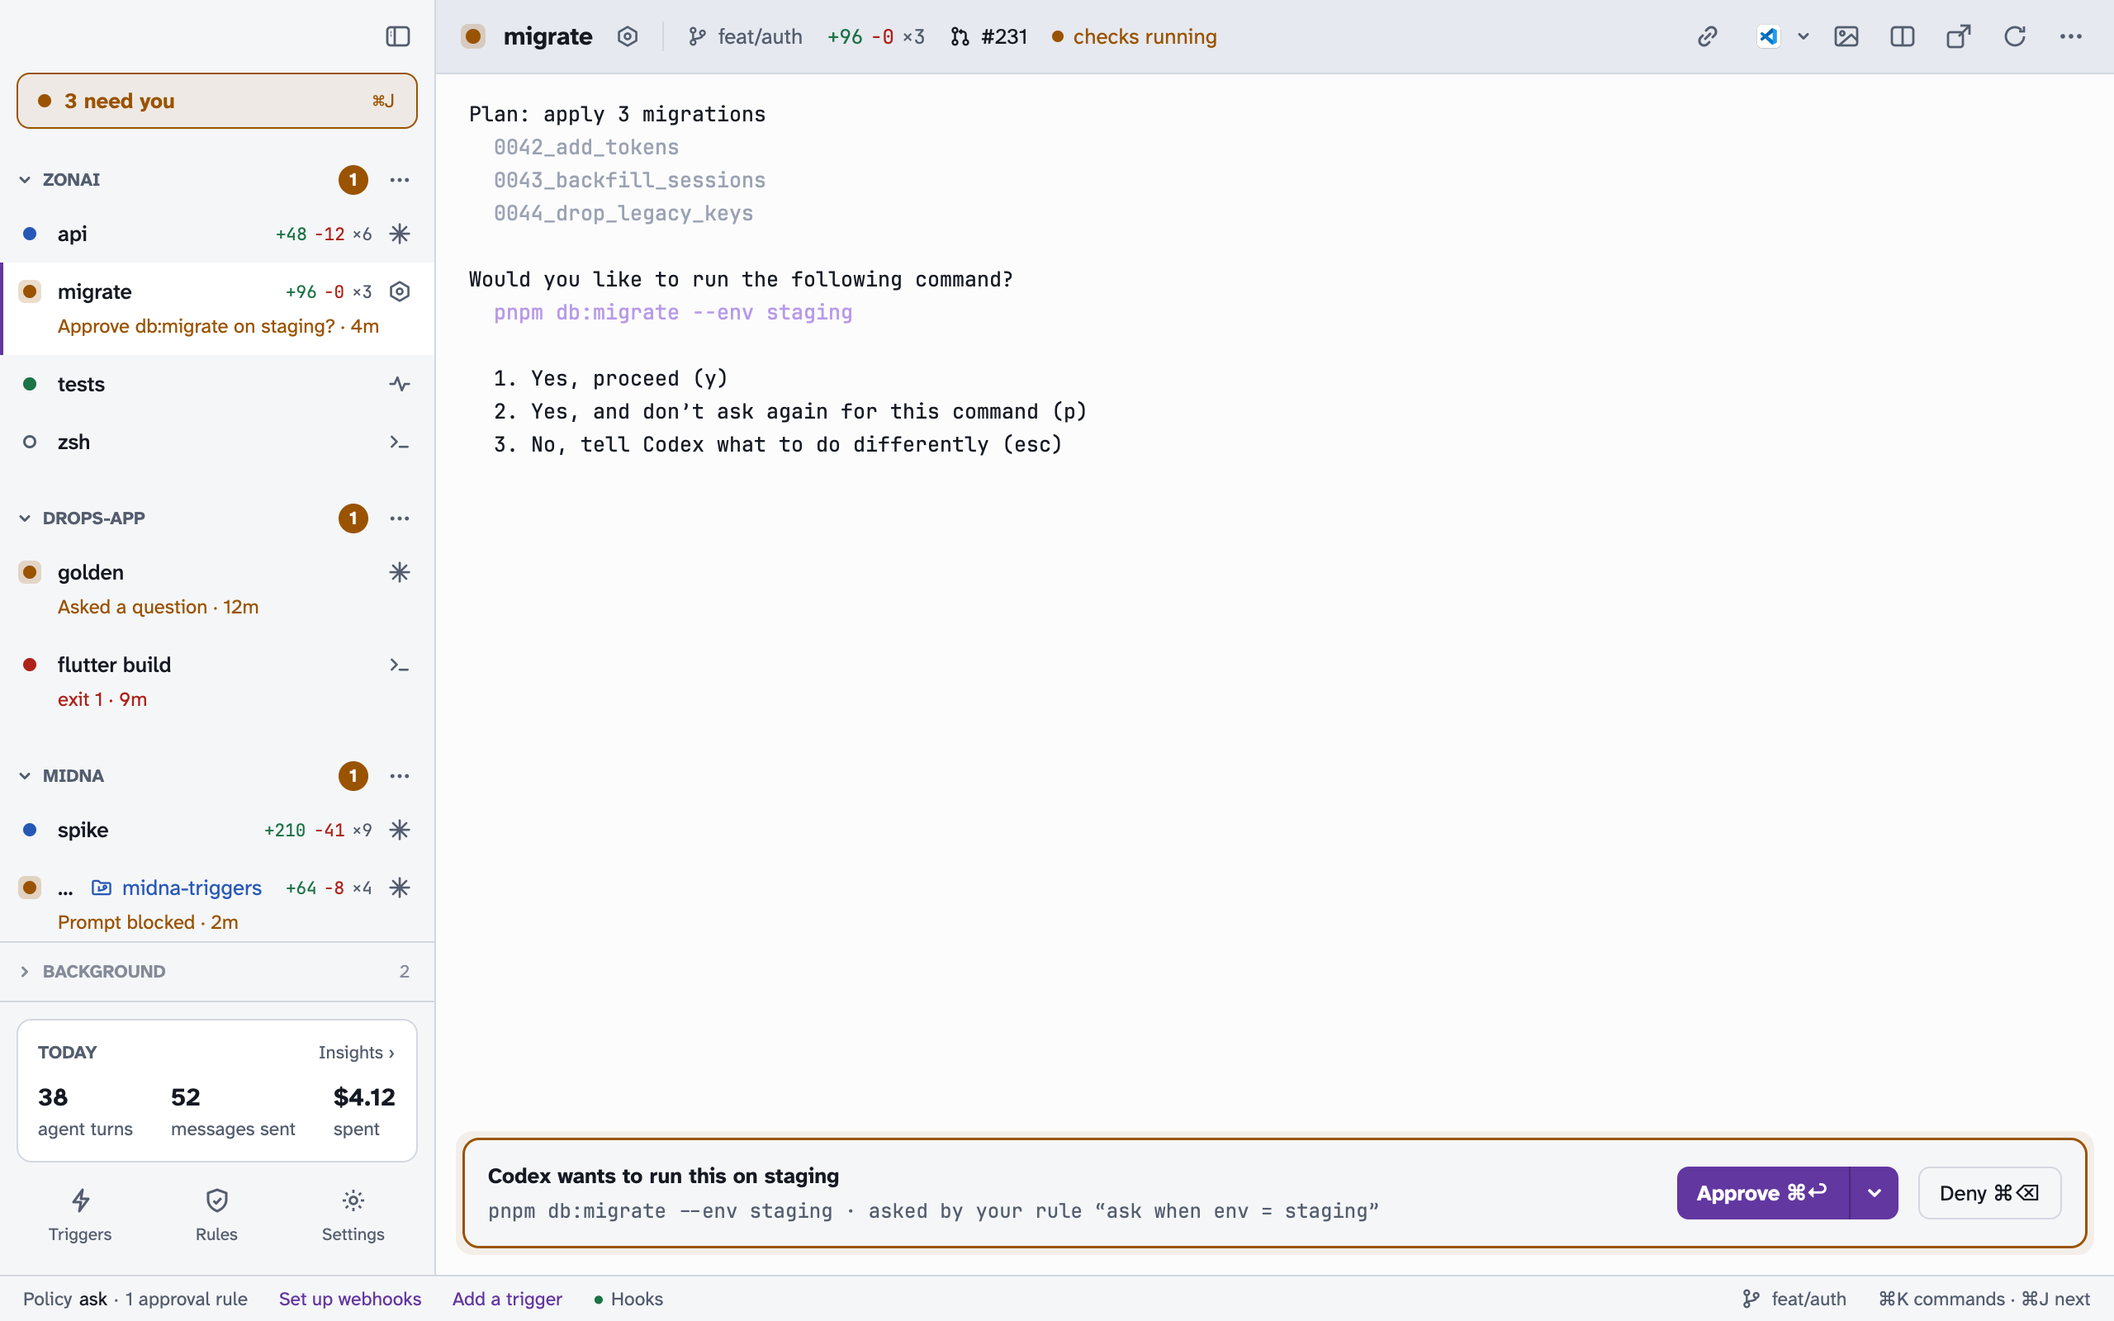
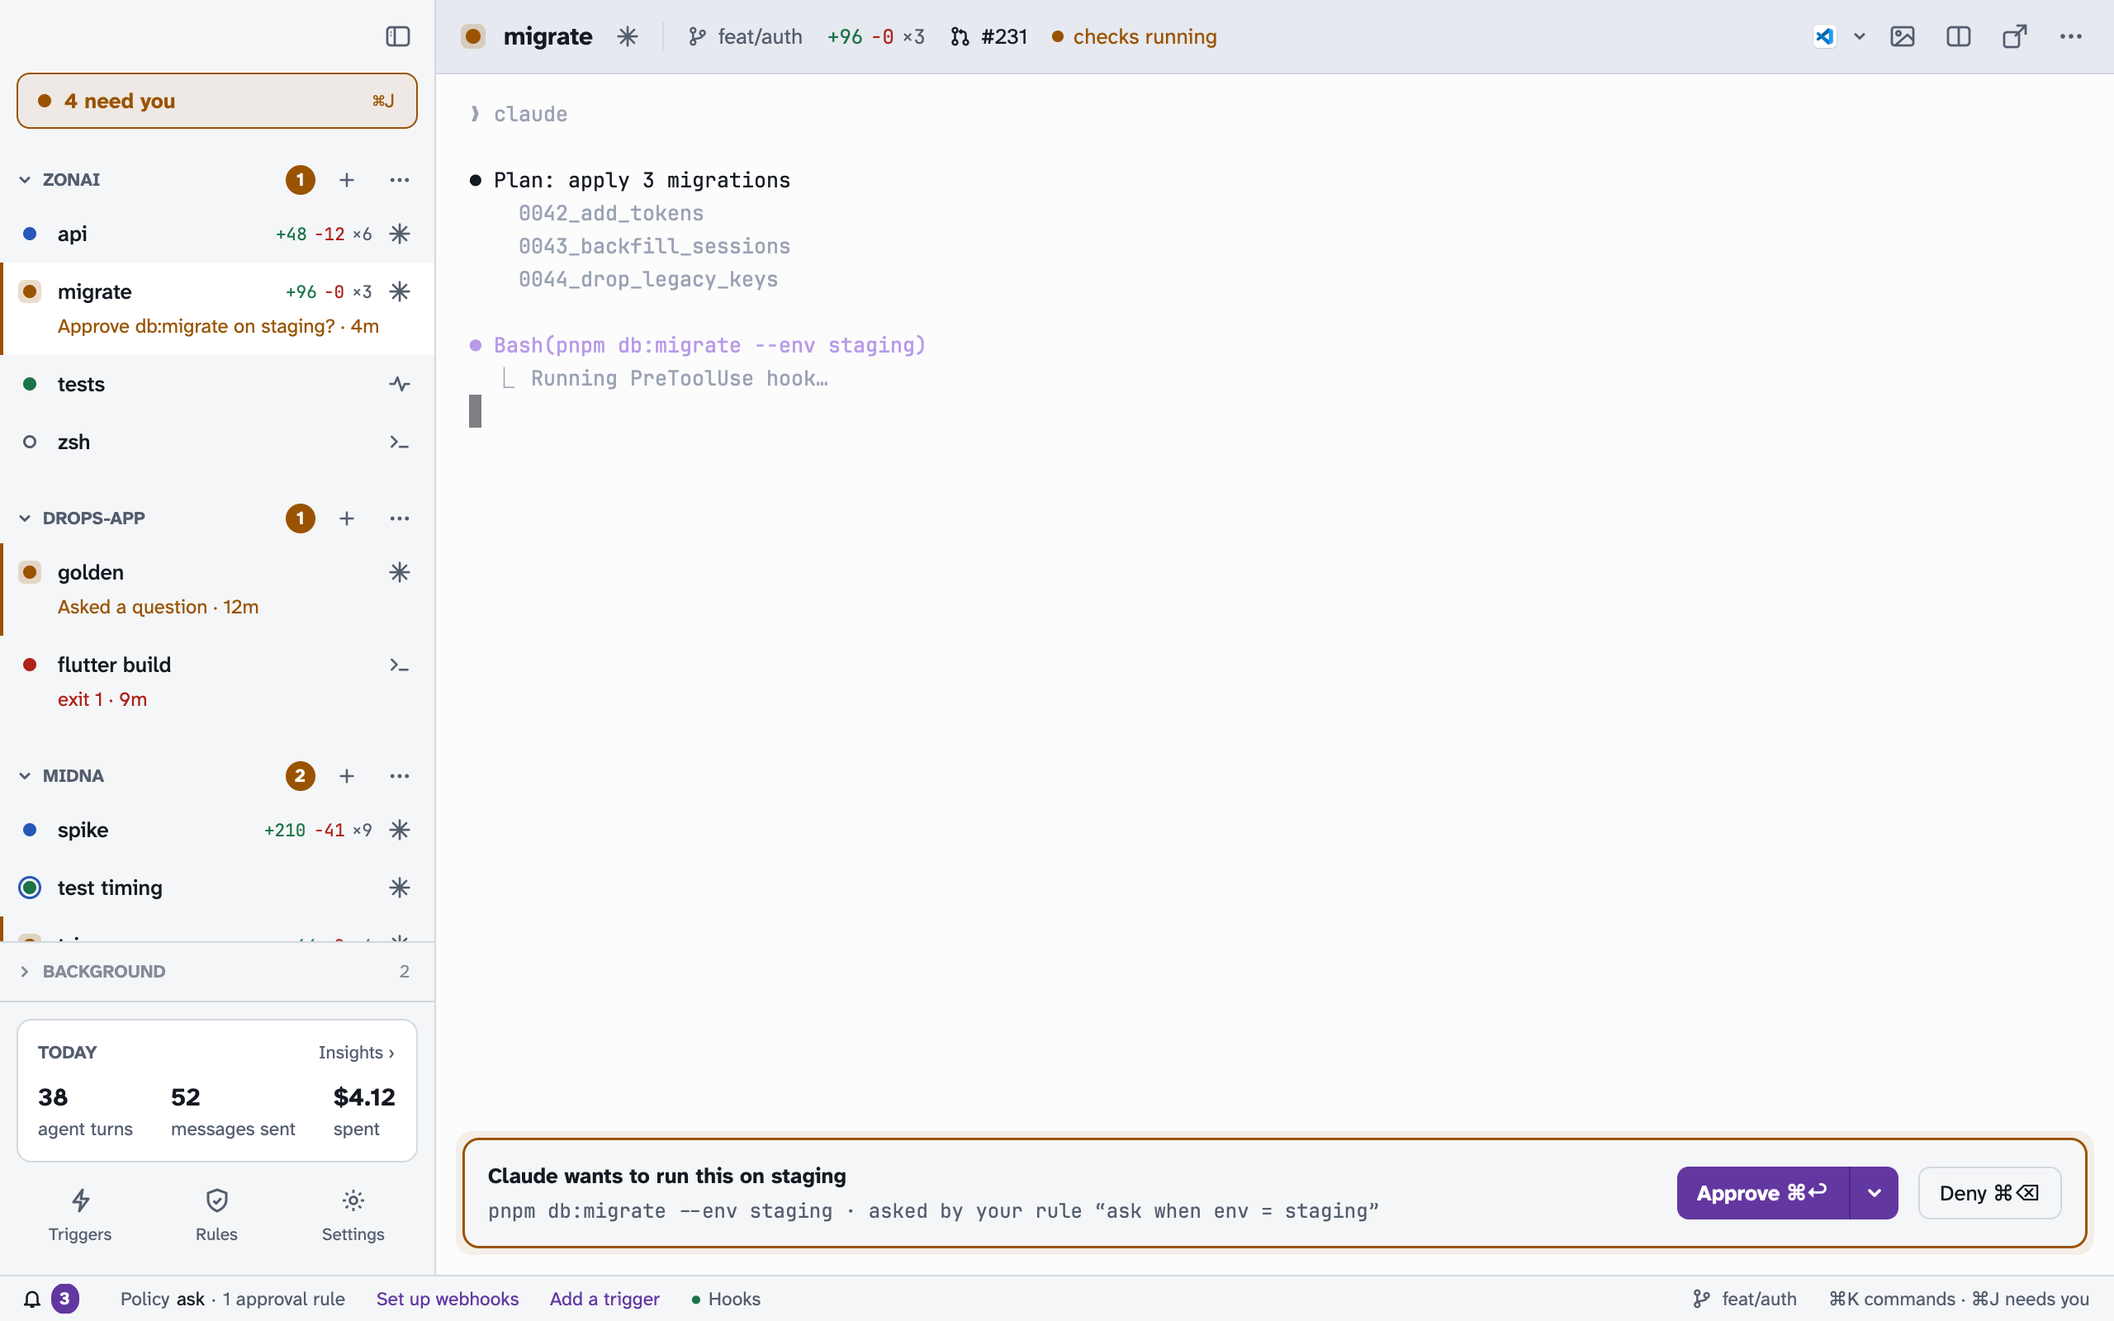
fix(site): act on the marketing review
Add a privacy page, share tags and a 1200x630 share image on every page,
JSON-LD, robots.txt and sitemap dates. Fix the changelog's two H1s and the
download page's static HTML, and label the example data.

Narrow the approvals copy to Claude Code: a live run showed Codex's prompts
stay in its terminal. The sample terminal is now a Claude session, so the
rerendered screenshots show what really happens.

diff --git a/site/src/site.ts b/site/src/site.ts
@@ -5,3 +5,8 @@ export const DOWNLOAD = '/download/';
 export const RELEASES = `${REPO}/releases/latest`;
 export const ISSUES = `${REPO}/issues`;
 export const NEW_ISSUE = `${REPO}/issues/new/choose`;
+// Shown when a page is shared. A versioned name, so a new image isn't hidden by caches.
+export const SHARE_IMAGE = '/share-v1.png';
+export const SHARE_IMAGE_WIDTH = 1200;
+export const SHARE_IMAGE_HEIGHT = 630;
+export const SHARE_IMAGE_ALT = 'The midna window with example data: projects and terminals in the sidebar, and a Claude Code terminal running a migration';

diff --git a/crates/midna-app/src/backend/fake.rs b/crates/midna-app/src/backend/fake.rs
@@ -240,7 +240,7 @@ impl FakeBackend {
                     "p_zonai1",
                     "migrate",
                     Agent,
-                    Some(Codex),
+                    Some(Claude),
                     NeedsYou,
                     Some("Approve db:migrate on staging?"),
                     4,
@@ -284,9 +284,9 @@ impl FakeBackend {
                 session_id: Some("a1f00002".into()),
                 project_id: Some("p_zonai1".into()),
                 kind: NeedsYouKind::Approval,
-                title: "Codex wants to run this on staging".into(),
+                title: "Claude wants to run this on staging".into(),
                 detail: "asked by your rule “ask when env = staging”".into(),
-                asked_by: Actor { kind: "agent".into(), session: Some("a1f00002".into()), name: Some("codex".into()) },
+                asked_by: Actor { kind: "agent".into(), session: Some("a1f00002".into()), name: Some("claude".into()) },
                 created_at: ago(4),
                 approval: Some(ApprovalRequest {
                     action: PolicyAction {
@@ -389,17 +389,15 @@ impl FakeBackend {
             (
                 "a1f00002",
                 transcript(&[
-                    ("", "Plan: apply 3 migrations"),
-                    (DIM, "  0042_add_tokens"),
-                    (DIM, "  0043_backfill_sessions"),
-                    (DIM, "  0044_drop_legacy_keys"),
+                    (DIM, "❯ claude"),
                     ("", ""),
-                    ("", "Would you like to run the following command?"),
-                    (ACC, "  pnpm db:migrate --env staging"),
+                    ("", "⏺ Plan: apply 3 migrations"),
+                    (DIM, "    0042_add_tokens"),
+                    (DIM, "    0043_backfill_sessions"),
+                    (DIM, "    0044_drop_legacy_keys"),
                     ("", ""),
-                    ("", "  1. Yes, proceed (y)"),
-                    ("", "  2. Yes, and don’t ask again for this command (p)"),
-                    ("", "  3. No, tell Codex what to do differently (esc)"),
+                    (ACC, "⏺ Bash(pnpm db:migrate --env staging)"),
+                    (DIM, "  ⎿  Running PreToolUse hook…"),
                 ]),
             ),
             ("a1f00003", transcript(&[(DIM, "cargo watch -x test"), (OK, "   ok  auth::refresh"), ("", "412 passed; 0 failed")])),

diff --git a/docs/marketing/page-brief.md b/docs/marketing/page-brief.md
@@ -1,0 +1,42 @@
+# Page brief
+
+- Type and state: Product site for a free, open source Mac app, live on a public beta. Stable hasn't shipped (newest release v0.1.0-beta.46, checked 2026-11-06).
+- Audience: Developers on Apple Silicon Macs who already run Claude Code or Codex in a terminal, often several at once, and know what an approval prompt is.
+- The page's one job: Get that developer to download midna and try it on a real project.
+- Primary CTA: "Download for Mac", to `/download/`. Wording and target wait on the download decision below.
+- Secondary action: "Read the docs", to `/docs/`.
+- Search phrases: terminal for Claude Code; macOS terminal for AI agents; run multiple Claude Code sessions; approve Claude Code prompts in one place; Claude Code terminal app Mac.
+- Objections: Does it work with my agent? Will my shells die when it updates? Is it safe to let agents drive my terminal? Is it signed? What does it send, and to whom? Is it free?
+- Analytics and cookies: none. Fonts are served from the site. The download page calls `api.github.com` from the browser.
+
+## Claims
+
+Checked 2026-11-06.
+
+| Claim on the page | Evidence |
+| --- | --- |
+| Native macOS terminal for Claude Code and Codex | `crates/midna-app`, `README.md` |
+| Agents open and read terminals through a CLI and MCP server | `midna capabilities`; `site/src/content/docs/docs/agents.md` |
+| Claude Code approvals land in one queue, approve and deny from midna | Real dialog fixture `crates/midnad/tests/fixtures/claude-2.1.288-permission.screen.txt`; `docs/DECISIONS.md` |
+| Codex's approval prompts stay in its terminal | Live run with codex-cli 0.163.0, `approval_policy="on-request"`, temp daemon: prompt shown, status stayed `working`, `midna needs` empty for over a minute. Backlog B774 |
+| Approving for 15 minutes, 1 hour, the session or always adds a rule | `approve-menu.png`, a real render; `docs/DECISIONS.md` |
+| Shells keep running when the app restarts or updates | Daemon owns the shells: `AGENTS.md`, `README.md` |
+| Free and open source (MIT) | `LICENSE`, Copyright 2026 Morgan Hunt |
+| Apple Silicon | arm64-only DMG: `.github/workflows/release.yml:155` |
+| macOS 12 or later | `LSMinimumSystemVersion` 12.0 in `packaging/build-app.sh` and the shipped `Info.plist`. Never run on macOS 12: see below |
+| Signed, notarized, updates itself | beta.46 DMG: `spctl` accepted as Notarized Developer ID (Developer ID Application: Morgan Hunt, U2G2XV3688); `stapler validate` passes on the DMG and `Midna.app`. Updates: `crates/midna-app/src/updater.rs` |
+| Eight built-in themes | `crates/midna-proto/src/themes.rs` `BUILTIN_IDS` |
+| Triggers can arrive by webhook over Tailscale Funnel | `crates/midnad/src/webhooks/`, but turning Funnel on hasn't been run for real: see below |
+| Privacy page: no account, analytics or crash reporting | Source search of `crates/` for sentry, telemetry, posthog, amplitude, crash reporting: nothing. `ureq` only in `updater.rs` |
+| Privacy page: update check every 6 hours | `CHECK_EVERY` in `crates/midna-app/src/updater.rs` |
+| Privacy page: what link previews, the network check, cleanup and webhooks send | `crates/midna-app/src/terminal/link_preview.rs`; `PROBE_HOST` in `crates/midnad/src/resume.rs`; `crates/midna-proto/src/cleanup.rs`; `webhooks.path` in `crates/midna-proto/src/settings.rs` (off by default). Cleanup is on by default |
+| Screenshots | Real renders of midna with the fake backend's sample data, made with the `snapshot` feature (`docs/DECISIONS.md:150`), not recreations. The hero is labelled "Example data". `main`, `main-light`, `approve-menu`, `command-bar`, `needs-you` and `composer` were rendered 2026-11-06 at 1280x800 @2x with `MIDNA_BACKEND=fake MIDNA_SELECT=a1f00002` |
+
+Structured data uses `Organization` for midna, because naming Morgan as a `Person` is their call.
+
+## Waiting on a person
+
+- Morgan: decide what Download does. Every release is a prerelease, so `/releases/latest` is a 404 and the page ends at "midna isn't out yet". Offer the beta, cut a stable release, or call the site pre-launch.
+- Morgan: run midna once on macOS 12, or raise the stated minimum to a version it has run on.
+- Morgan: turn Tailscale Funnel on for real and check a webhook arrives, or drop Funnel from the home page.
+- Morgan: read `/privacy/` and confirm it's what you want to publish under your name.

diff --git a/site/src/content/docs/privacy.md b/site/src/content/docs/privacy.md
@@ -1,0 +1,42 @@
+---
+title: Privacy
+description: What midna and this website keep, what leaves your Mac and where it goes. No account, no analytics, no cookies.
+---
+
+Last updated November 6, 2026.
+
+midna has no account, and neither the app nor this website has analytics, crash reporting or tracking. What you do in midna stays on your Mac unless one of the things listed below sends it somewhere.
+
+midna is made by Morgan Hunt. If you have a question about this page, [open an issue](https://github.com/mrgnhnt96/midna/issues/new/choose).
+
+## What stays on your Mac
+
+Projects, rules, triggers, settings, logs and the event log are kept in `~/Library/Application Support/com.mrgnhnt.midna`. Secrets are kept in the macOS Keychain. Nothing in that folder is uploaded by midna.
+
+To remove all of it, follow [Uninstall](/docs/install/#uninstall) and delete the folder.
+
+## What the app sends
+
+| What | Where it goes | When | What's sent |
+| --- | --- | --- | --- |
+| Update check | GitHub | Every 6 hours | A request for the channel's update file, with midna's version in the user agent |
+| Link preview | The site you're pointing at | When the pointer rests on a web link in a terminal | A normal request for that page, to show its title and description. Never for local or private addresses |
+| Pull request details | GitHub, through your own `gh` | When a terminal's branch has a pull request, or the pointer rests on a pull request link | What `gh` sends when you run it yourself |
+| Network check | `api.anthropic.com` | While an agent is waiting for the network to come back | A connection attempt only. No data |
+| Cleanup after a terminal closes | Anthropic, through your own Claude account | When an agent terminal closes, if `cleanup.enabled` is on (it is by default) | midna runs Claude with `cleanup.model` to tidy up what the terminal left behind. Turn it off in Settings |
+| Webhooks | Whichever path you set up | Only if you turn webhooks on (they're off by default) | Events arrive from GitHub or Bitbucket through the path you chose, such as Tailscale Funnel |
+| Report an issue | GitHub, in your browser | Only when you choose it | A prefilled issue with versions and hardware. Nothing is sent until you submit it. No paths, project names, terminal output or logs |
+
+## Agents
+
+Agents such as Claude Code and Codex are separate programs that you install and sign in to yourself. What you send them goes to their makers under those companies' own terms. midna doesn't send your prompts anywhere else.
+
+Triggers and scripts you add run as you, and they can reach whatever you tell them to.
+
+## This website
+
+This site is hosted on GitHub Pages, so GitHub handles every visit and may keep technical logs, such as IP addresses. See [GitHub's privacy statement](https://docs.github.com/en/site-policy/privacy-policies/github-general-privacy-statement).
+
+The [download page](/download/) asks GitHub's API for the newest release from your browser, and the download itself comes from GitHub.
+
+The site sets no cookies, loads no analytics and serves its own fonts.

diff --git a/README.md b/README.md
@@ -132,15 +132,14 @@ spikes/          proven prototypes the crates grew from
 **Known gaps:**
 - **Same-user limitation.** The human/agent boundary is a guardrail, not authentication against a hostile local process (`docs/SECURITY.md`).
 - **Not run for real:**
-  - Codex approval prompts. The user's config sets `approval_policy="never"`.
   - The Kass AX insert.
   - Turning Tailscale Funnel on.
   - The Keychain secret path.
   - `gh` recovery against GitHub.
-  - Notarization.
   - The `RequiresApproval` login-item flow.
   - The macOS 12 legacy LaunchAgent path.
 - **Startup dialogs aren't surfaced as needs-you:** Claude or Codex folder trust and the hooks review.
+- **Codex approval prompts aren't surfaced as needs-you.** Run live on 2026-11-06 with Codex 0.163.0: the prompt stays in its terminal and the status stays working.
 - **Relay webhook paths** (`self_relay`, `midna_relay`) aren't built.
 - **Trigger filters** are structured only (repo, branch, action, label). There are no expressions.
 - **Packaging gaps:**
@@ -167,7 +166,7 @@ These need you (credentials, your screen, or your accounts). Nothing in this lis
    1. Run `kass-probe … kass-sim 2`.
    2. Expect `role=AXTextArea … Inserted{exact:true}`.
    3. Better still, dictate with the real Kass.
-4. **Live-test Codex approvals.** Your `~/.codex/config.toml` sets `approval_policy="never"`. Use a temp `CODEX_HOME` with `on-request` (or a webhook-started Codex, which now runs `on-request`), and check that the prompt patterns and approve/deny from midna work.
+4. **Surface Codex approvals.** Live-tested on 2026-11-06 with Codex 0.163.0 and `approval_policy="on-request"`: the prompt stays in its terminal, and nothing reaches Needs you. midna starts Codex with `notify` only, which fires at the end of a turn, and the screen check only settles prompts that were already raised.
 5. **Enable Tailscale Funnel** for your tailnet. Then run `midna webhooks configure tailscale_funnel` from the GUI (human only), and point a GitHub webhook at the public URL that `midna webhooks status` shows.
 6. **Decide on `triggers.agent_mode`.** The default is `supervised`, which forces permission prompts on webhook-started agents even though your global Claude config bypasses them. Switch to `inherit` only if you accept that risk. Local triggers (schedules, hooks) use your normal config; to give one trigger's agents their own mode or tools, use `midna triggers update <id> --permission-mode auto --allow-tool <tool>`.
 7. **Grant Accessibility to Midna.app only after reading `docs/SECURITY.md` → "TCC responsibility".** Agents in midna terminals may inherit that grant.

diff --git a/site/src/content/docs/docs/agents.md b/site/src/content/docs/docs/agents.md
@@ -28,12 +28,12 @@ Anything only you can answer goes to **Needs you**. The terminal's row turns ora
 - The terminal you're looking at shows its approval along the bottom. <kbd>⌘</kbd> <kbd>↩</kbd> approves, <kbd>⌘</kbd> <kbd>⌫</kbd> denies.
 - <kbd>⌘</kbd> <kbd>J</kbd> goes through everything waiting, one card at a time, oldest first.
 
-![A Needs you card for an agent's question, with the remaining items listed below](../../../assets/screens/needs-you.png)
+![The Needs you screen: everything waiting listed on the left, with an agent's question open on the right](../../../assets/screens/needs-you.png)
 
 | Item | What it is | <kbd>⌘</kbd> <kbd>↩</kbd> | <kbd>⌘</kbd> <kbd>⌫</kbd> |
 | --- | --- | --- | --- |
 | Approval | A rule said **ask**, or an agent asked for a human-only action | Approve | Deny |
-| Permission prompt | Claude Code or Codex is showing its own permission dialog | Approve | Deny |
+| Permission prompt | Claude Code is showing its own permission dialog. Codex's approval prompts aren't queued yet: answer them in its terminal. | Approve | Deny |
 | Blocked | An agent can't continue without you (`midna attention`) | I've done it | Dismiss |
 | Failed | A monitor or agent exited with an error | Restart | Dismiss |
 | Rule removal | An agent asked you to remove a rule | Remove | Keep |

diff --git a/docs/STATUS-agents.md b/docs/STATUS-agents.md
@@ -91,9 +91,9 @@
   - `Frame` carries `decckm` / `bracketed_paste` but not the kitty flags, and Enter from the GUI as a bare `\r` won't submit to Claude.
   - Either add the flags to `Frame`, or use libghostty's key encoder with `Terminal::kitty_keyboard_flags`.
   - I didn't touch proto or the app.
-- **Codex approvals weren't exercised live.**
-  - The user's `~/.codex/config.toml` sets `approval_policy="never"`, and midna doesn't override it.
-  - The Codex prompt patterns come from the spike.
+- **Codex approvals don't reach Needs you.**
+  - Run live on 2026-11-06 with Codex 0.163.0 and `approval_policy="on-request"`: the prompt stayed in its terminal, the status stayed `working`, and `midna needs` stayed empty.
+  - midna starts Codex with `notify` only, and the screen check only settles prompts that were already raised.
   - Codex has no cost signal, and interrupted Codex turns count no message because no notify arrives.
 - **Startup dialogs aren't surfaced as needs-you.** Claude's folder trust and Codex's folder trust or hooks review leave the session `idle`.
 - **Native prompts won't appear for this user in normal use.** Their global `defaultMode` is `bypassPermissions`, so in practice only midna rules gate tools. I forced `default` for testing through the temp project's `.claude/settings.local.json`.

diff --git a/site/src/content/docs/docs/index.md b/site/src/content/docs/docs/index.md
@@ -5,7 +5,7 @@ description: What midna is, how it fits together, and how to get started.
 
 midna is a macOS terminal for working with AI agents like Claude Code and Codex. You use it like any terminal: projects in a sidebar, tabs, splits. Agents can use it too. Through the `midna` CLI or its MCP server they can open terminals you can watch, read other terminals, add rules and draft triggers. The few decisions that stay yours, like approving a request or removing a rule, come to you in one queue called **Needs you**.
 
-![The midna window: projects and terminals in the sidebar, a Codex terminal asking to run a migration, and the approval along the bottom](../../../assets/screens/main.png)
+![The midna window: projects and terminals in the sidebar, a Claude Code terminal asking to run a migration, and the approval along the bottom](../../../assets/screens/main.png)
 
 ## How it fits together
 
